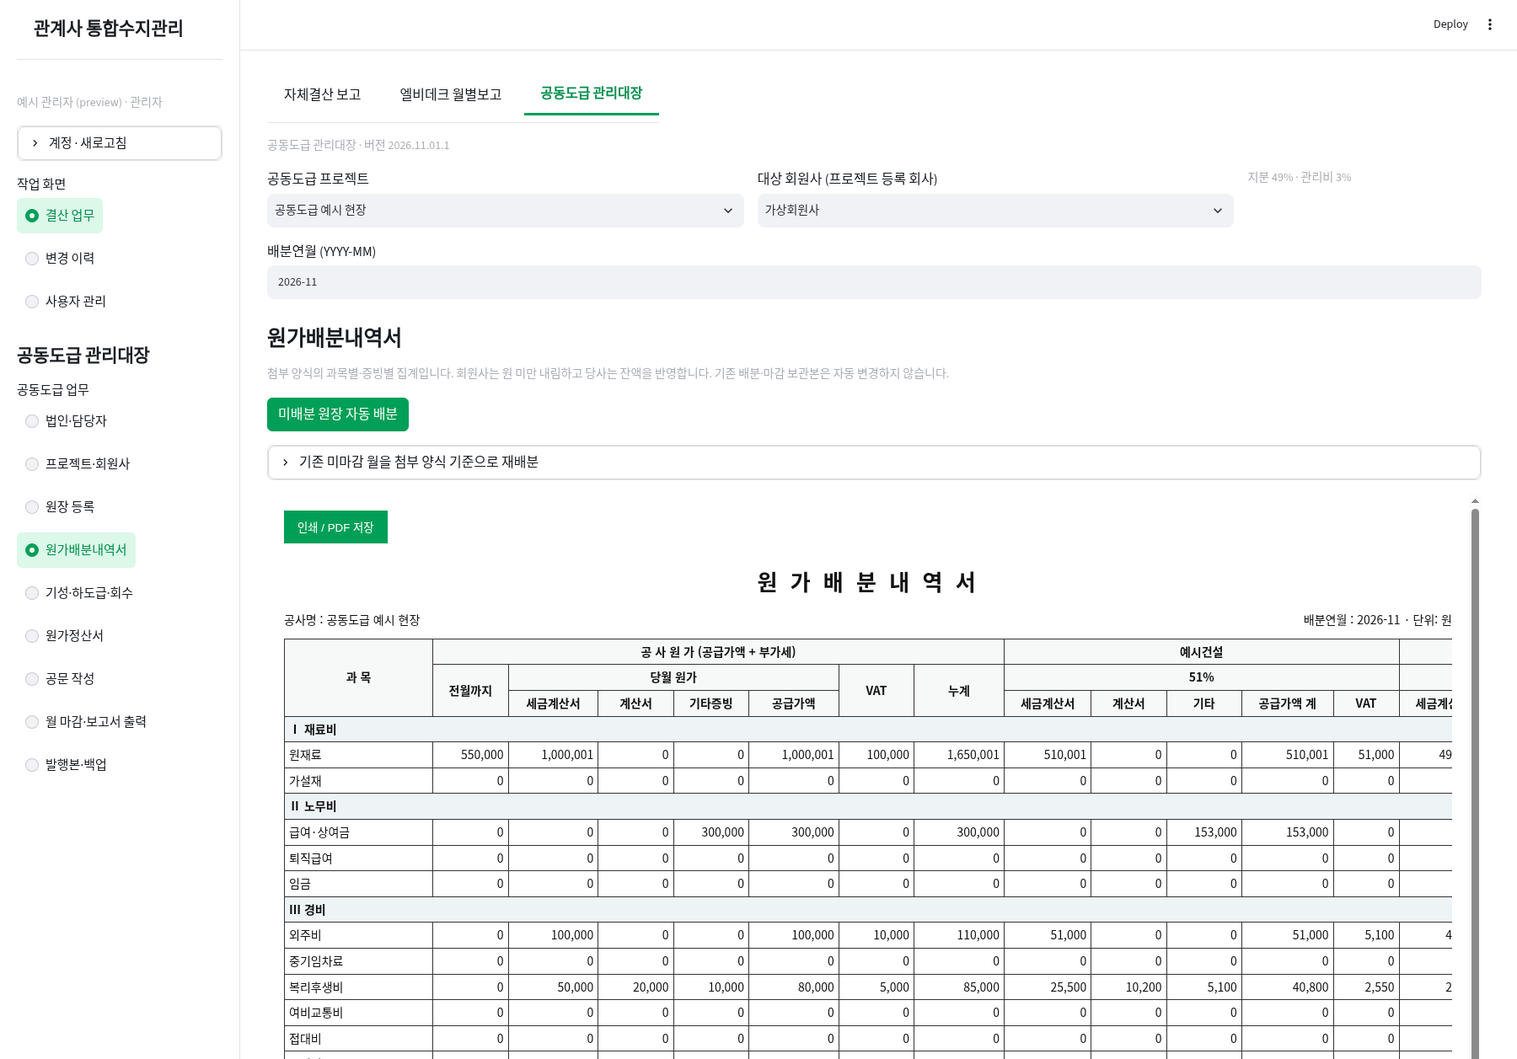
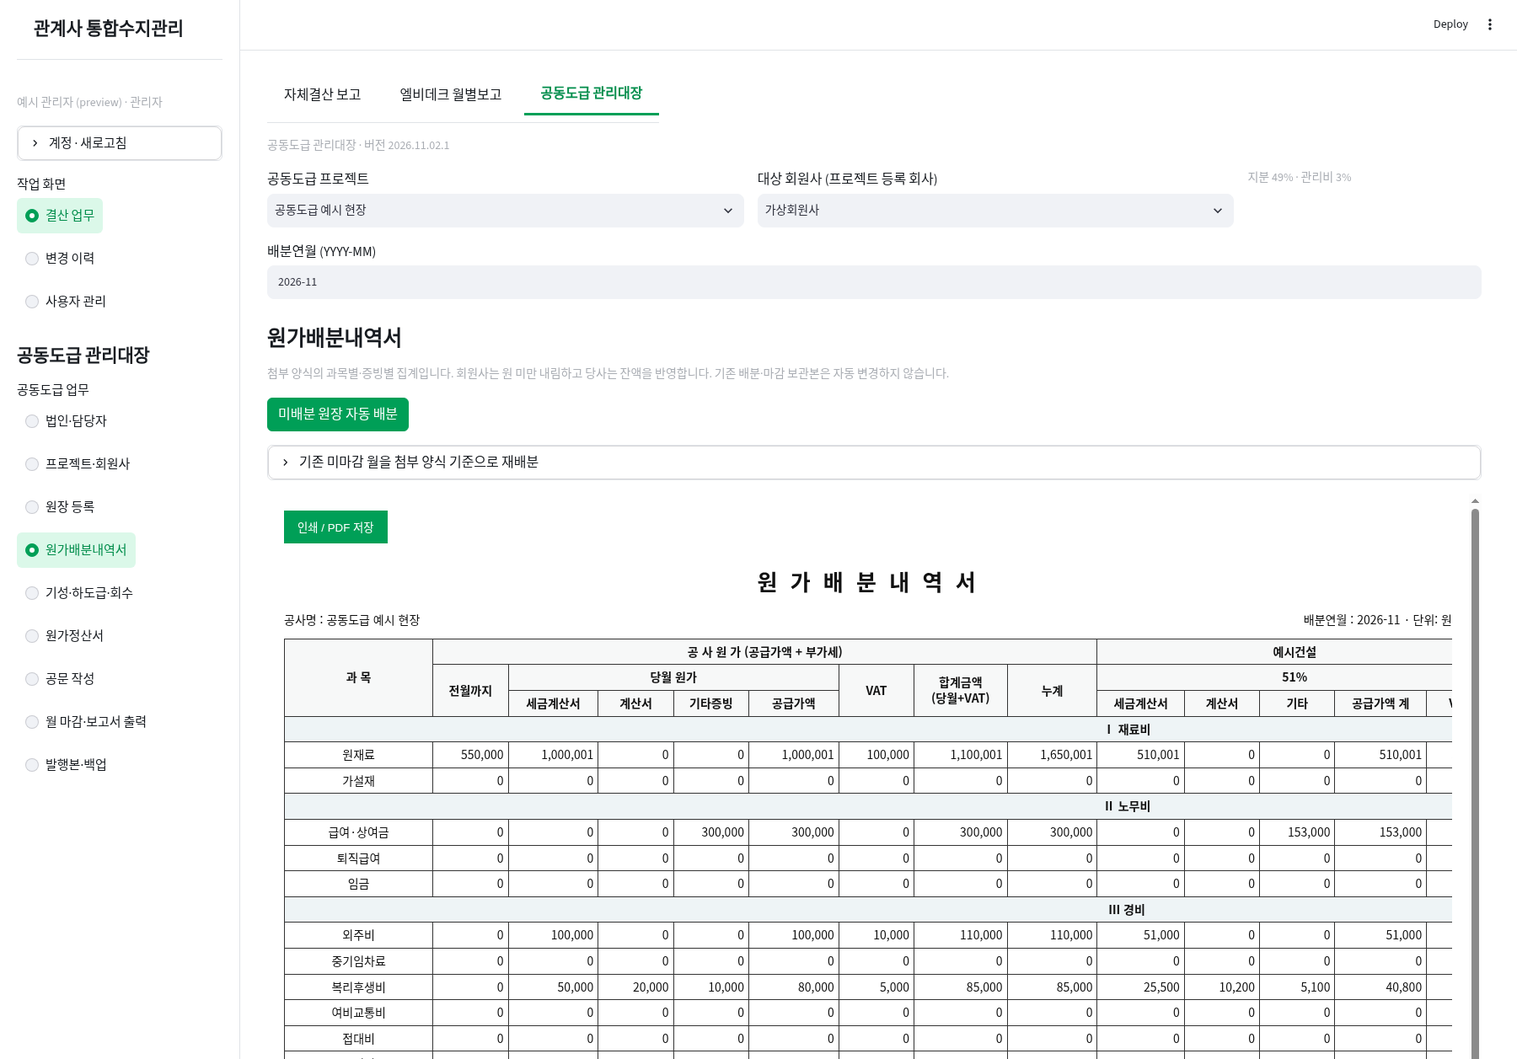
Place financial totals beside amounts and center descriptive table cells

diff --git a/monthly_preview_template.html b/monthly_preview_template.html
@@ -48,6 +48,7 @@ h1{font-size:32px;letter-spacing:-1px;margin:0 0 10px}h1 small{font-size:26px;ma
 #reporttable .final td.negative{color:#a93434!important}
 @media print{.pagehead{overflow:visible;display:block;margin-bottom:10px}.title-and-approvals{display:flex;flex-wrap:nowrap;min-width:0;gap:18px}.title-and-approvals>div:first-child{min-width:0}.report-approvals{margin:0;flex-wrap:nowrap}.pagehead>.actions{display:none!important}#reporttable .final td{background:#e4e7eb!important;color:#26313b!important}#reporttable .final td.negative{color:#a93434!important}}
 @media screen and (max-width:1150px){.title-and-approvals{gap:16px}.title-and-approvals h1{font-size:26px}.title-and-approvals h1 small{font-size:23px}.report-approvals .approval-table{width:170px}}
+th{text-align:center!important}
 </style></head><body>
 <aside><div class="brand">LB DECK<small>데크·거더사업부 수지관리</small></div><div class="nav-head">MONTHLY REPORT</div><button class="nav-item active" id="nav-report" onclick="tab('report')"><span>▦</span>수입·지출 보고서</button><button class="nav-item" id="nav-analysis" onclick="tab('analysis')"><span>≡</span>자료 분석·검증</button><div class="side-note"><strong>보고서 화면 시안 · v1</strong><br>원본 엑셀 기준 / 읽기 전용<br>숫자를 누르면 집계 근거를 확인합니다.<br>회사 원본은 외부로 전송하지 않습니다.</div></aside>
 <main><div class="embedded-switch"><button class="control" onclick="tab('report')">보고서</button><button class="control" onclick="tab('analysis')">분석·검증</button></div><div class="topbar"><span>엘비데크 월별보고 &nbsp; / &nbsp; 통장 입출금 기준</span><span class="pill">공급가액 기준 · 부가세 제외</span></div>
@@ -156,3 +157,14 @@ document.getElementById('endMonth').innerHTML=D.months.map(m=>`<option value="${
 if(D.validation_mode==='ledger'){document.title='엘비데크 | 월별 통장 수입·지출 보고서';document.querySelector('.paneltitle small').textContent='월별 업로드한 원장을 집계한 부가세 제외 보고서';document.querySelector('.side-note').innerHTML='<strong>월별 원장 자동 집계</strong><br>원장·부가세·별도 조정 기준<br>숫자를 누르면 집계 근거를 확인합니다.';}
 render();analysis();document.addEventListener('keydown',e=>{if(e.key==='Escape')closeDrawer()});
 </script></body></html>
+
+<script>
+// Reapply semantic alignment after month filters and expandable details render.
+function alignReportCells(){document.querySelectorAll('table td').forEach(cell=>{
+ const value=cell.textContent.trim();
+ const numeric=/^[−△▲-]?\s*[\d,]+(?:\.\d+)?(?:%|원)?$/.test(value);
+ cell.style.setProperty('text-align',numeric?'right':'center','important');
+});}
+new MutationObserver(alignReportCells).observe(document.body,{childList:true,subtree:true});
+alignReportCells();
+</script>

diff --git a/joint_allocation.py b/joint_allocation.py
@@ -137,23 +137,23 @@ def matrix_data(project,members,raw,allocations,prior=(),stored=(),prior_known=T
 def render_matrix(data,month,printable=True):
     from joint_report import money
     esc=lambda s:escape(str(s));ms=data['members']
-    def cell(value):return '<td>'+esc(money(value))+'</td>'
+    def cell(value):return '<td class="number">'+esc(money(value))+'</td>'
     h='<h1>원 가 배 분 내 역 서</h1><div class="heading"><span>공사명 : '+esc(data['project']['name'])+'</span><span>배분연월 : '+esc(month)+' · 단위: 원</span></div>'
-    h+='<div class="scroll"><table id="allocation-matrix"><thead><tr><th rowspan="3">과 목</th><th colspan="7">공 사 원 가 (공급가액 + 부가세)</th>'+''.join('<th colspan="5">'+esc(m['name'])+'</th>' for m in ms)+'<th rowspan="3">비고·검산</th><th rowspan="3">합계금액<br>(당월+VAT)</th></tr><tr><th rowspan="2">전월까지</th><th colspan="4">당월 원가</th><th rowspan="2">VAT</th><th rowspan="2">누계</th>'+''.join('<th colspan="5">'+esc(m['share'])+'%</th>' for m in ms)+'</tr><tr>'
+    h+='<div class="scroll"><table id="allocation-matrix"><thead><tr><th rowspan="3">과 목</th><th colspan="8">공 사 원 가 (공급가액 + 부가세)</th>'+''.join('<th colspan="5">'+esc(m['name'])+'</th>' for m in ms)+'<th rowspan="3">비고·검산</th></tr><tr><th rowspan="2">전월까지</th><th colspan="4">당월 원가</th><th rowspan="2">VAT</th><th rowspan="2">합계금액<br>(당월+VAT)</th><th rowspan="2">누계</th>'+''.join('<th colspan="5">'+esc(m['share'])+'%</th>' for m in ms)+'</tr><tr>'
     h+=''.join('<th>'+x+'</th>' for x in ['세금계산서','계산서','기타증빙','공급가액']+['세금계산서','계산서','기타','공급가액 계','VAT']*len(ms))+'</tr></thead><tbody>'
     for line in data['lines']:
         if 'section' in line:h+='<tr class="section"><td colspan="'+str(10+5*len(ms))+'">'+esc(line['section'])+'</td></tr>';continue
         cur=line['current'];supply=sum((cur[k] for k in BUCKETS[:3]),Decimal(0));gross=supply+cur['vat']
         h+='<tr class="'+('total' if line.get('total') else 'subtotal' if line.get('subtotal') else '')+'"><td>'+esc(line['label'])+'</td>'
-        h+=(cell(line['previous']) if data['prior_known'] else '<td>미기록</td>')+''.join(cell(cur[k]) for k in BUCKETS[:3])+cell(supply)+cell(cur['vat'])+(cell(line['previous']+gross) if data['prior_known'] else '<td>미기록</td>')
+        h+=(cell(line['previous']) if data['prior_known'] else '<td>미기록</td>')+''.join(cell(cur[k]) for k in BUCKETS[:3])+cell(supply)+cell(cur['vat'])+cell(gross)+(cell(line['previous']+gross) if data['prior_known'] else '<td>미기록</td>')
         for m in ms:
             part=line['companies'][m['id']]
             h+=(''.join('<td>확인 필요</td>' for _ in range(3)) if line['unknown'] else ''.join(cell(part[k]) for k in BUCKETS[:3]))+cell(part['base'])+cell(part['vat'])
         valid=sum((line['companies'][m['id']]['base'] for m in ms),Decimal(0))==supply and sum((line['companies'][m['id']]['vat'] for m in ms),Decimal(0))==cur['vat']
-        h+='<td>'+('확인 필요' if line['unknown'] else '정상' if valid else '미배분·확인')+'</td>'+cell(gross)+'</tr>'
+        h+='<td>'+('확인 필요' if line['unknown'] else '정상' if valid else '미배분·확인')+'</td></tr>'
     h+='</tbody></table></div><p>분류 확인 계정은 전체 공급가액에 포함하며 공사원가 계에는 중복 포함하지 않습니다.</p><p>합계금액은 당월 공급가액과 VAT의 합계입니다. 회사별 배분액을 다시 더하지 않습니다.</p>'
     if data.get('legacy'):h+='<p>기존 배분액을 보존한 자료입니다. 새 계산 기준은 미마감 월에서 정산 연결 확인 후 명시적으로 재배분할 수 있습니다.</p>'
     if data['unknown']:h+='<p>기존 혼합 증빙 배분은 금액을 보존했습니다. 증빙별 배분을 확인하거나 미마감 월에서 명시적으로 재배분하세요.</p>'
     button='<button onclick="window.print()">인쇄 / PDF 저장</button>' if printable else '<button disabled>월 마감 후 출력</button>'
-    css='''*{box-sizing:border-box}body{font:14px/1.4 "Malgun Gothic",sans-serif;color:#111;margin:20px}h1{text-align:center;font-size:26px;letter-spacing:4px}.heading{display:flex;justify-content:space-between;margin:12px 0}.scroll{overflow:auto}table{border-collapse:collapse;min-width:2000px;width:100%;font-variant-numeric:tabular-nums}th,td{border:1px solid #333;padding:5px;text-align:right;white-space:nowrap}th{text-align:center;background:#f7f8f8}td:first-child{text-align:left}.section td{font-weight:bold;background:#eef4f6}.subtotal{background:#f1f2f3;font-weight:700}.total{background:#e0e5e9;font-weight:700}p{font-size:12px}button{padding:10px 16px;background:#009f57;color:white;border:0;margin-bottom:10px}@page{size:A3 landscape;margin:10mm}@media print{body{margin:0;font-size:9pt}button{display:none}.scroll{overflow:visible}table{min-width:0;font-size:8pt}th,td{padding:1.5px;line-height:1.2}tr{break-inside:avoid}h1{font-size:18pt;margin:8px 0}.heading{margin:6px 0}.section td,.subtotal,.total{print-color-adjust:exact}}'''
+    css='''*{box-sizing:border-box}body{font:14px/1.4 "Malgun Gothic",sans-serif;color:#111;margin:20px}h1{text-align:center;font-size:26px;letter-spacing:4px}.heading{display:flex;justify-content:space-between;margin:12px 0}.scroll{overflow:auto}table{border-collapse:collapse;min-width:2000px;width:100%;font-variant-numeric:tabular-nums}th,td{border:1px solid #333;padding:5px;text-align:right;white-space:nowrap}th{text-align:center;background:#f7f8f8}td{text-align:center}td.number{text-align:right}.section td{font-weight:bold;background:#eef4f6}.subtotal{background:#f1f2f3;font-weight:700}.total{background:#e0e5e9;font-weight:700}p{font-size:12px}button{padding:10px 16px;background:#009f57;color:white;border:0;margin-bottom:10px}@page{size:A3 landscape;margin:10mm}@media print{body{margin:0;font-size:9pt}button{display:none}.scroll{overflow:visible}table{min-width:0;font-size:8pt}th,td{padding:1.5px;line-height:1.2}tr{break-inside:avoid}h1{font-size:18pt;margin:8px 0}.heading{margin:6px 0}.section td,.subtotal,.total{print-color-adjust:exact}}'''
     return '<!doctype html><html lang="ko"><meta charset="utf-8"><title>원가배분내역서</title><style>'+css+'</style><body>'+button+h+'</body></html>'

diff --git a/joint_report.py b/joint_report.py
@@ -11,6 +11,7 @@ def amount(v):
     n=num(v)
     return '<span class="negative">'+esc(money(n))+'</span>' if n<0 else (esc(money(n)) if n else '−')
 def td(value='',numeric=False,**attrs):
+    attrs['class']=(attrs.get('class','')+' '+('number' if numeric else 'text')).strip()
     attributes=''.join(' '+k+'="'+esc(v)+'"' for k,v in attrs.items())
     return '<td'+attributes+'>'+(amount(value) if numeric else esc(value))+'</td>'
 def short_date(value):
@@ -19,7 +20,7 @@ def short_date(value):
 
 def numeric_cells(values):return ''.join(td(v,True) for v in values)
 def table(headers,records):
-    return '<table><thead><tr>'+''.join('<th>'+esc(x)+'</th>' for x in headers)+'</tr></thead><tbody>'+''.join('<tr>'+''.join(td(x) for x in row)+'</tr>' for row in records)+'</tbody></table>'
+    return '<table><thead><tr>'+''.join('<th>'+esc(x)+'</th>' for x in headers)+'</tr></thead><tbody>'+''.join('<tr>'+''.join(td(x,False,**{'class':'number' if any(t in headers[i] for t in ['공급가액','VAT','계산서','영수증','합계']) else 'text'}) for i,x in enumerate(row))+'</tr>' for row in records)+'</tbody></table>'
 
 
 def period_label(start,end):
@@ -87,10 +88,10 @@ def settlement_body(d,meta,number,issued):
     body+='</tbody></table></div><p class="sheet-bottom">보험료·제외항목은 회원사분 입력액입니다. 관리비는 기성별 원 미만 버림을 적용합니다.</p></section>'
     if d.get('claim_only'):
         body+='<section class="support-sheet"><h2>■ 하도급 청구내역 ['+esc(m['name'])+']</h2><div class="sheet-scroll"><table id="subcontract-grid"><thead><tr>'
-        body+=''.join('<th>'+x+'</th>' for x in ['청구일','업체명','공급가액','VAT','공종명','지급방식','비고','합계금액'])+'</tr></thead><tbody>'
+        body+=''.join('<th>'+x+'</th>' for x in ['청구일','업체명','공급가액','VAT','합계금액','공종명','지급방식','비고'])+'</tr></thead><tbody>'
         for e in subs:
-            v=e['data'];body+='<tr>'+td(short_date(e['entry_date']))+td(v.get('vendor',''))+numeric_cells([v['supply'],v['vat']])+td(v.get('work_type',''))+td(v.get('method',''))+td(v.get('note',''))+numeric_cells([num(v['supply'])+num(v['vat'])])+'</tr>'
-        body+='<tr class="grand-total">'+td('합 계',colspan='2')+numeric_cells([sub,subvat])+td('',colspan='3')+numeric_cells([sub+subvat])+'</tr></tbody></table></div></section>'
+            v=e['data'];body+='<tr>'+td(short_date(e['entry_date']))+td(v.get('vendor',''))+numeric_cells([v['supply'],v['vat'],num(v['supply'])+num(v['vat'])])+td(v.get('work_type',''))+td(v.get('method',''))+td(v.get('note',''))+'</tr>'
+        body+='<tr class="grand-total">'+td('합 계',colspan='2')+numeric_cells([sub,subvat,sub+subvat])+td('',colspan='3')+'</tr></tbody></table></div></section>'
     else:
         # Supporting sheet 3 mirrors the claim/payment columns of the original.
         body+='<section class="support-sheet"><h2>■ 하도급 청구 및 지급현황 ['+esc(m['name'])+']</h2><div class="sheet-scroll"><table id="subcontract-grid"><thead><tr>'
@@ -183,3 +184,5 @@ def monthly_package(package,member_id,meta):
             if original.get('digest') and hashlib.sha256(blob).hexdigest()!=original['digest']:raise ValueError('보관된 원본 파일의 무결성이 맞지 않습니다.')
             z.writestr('업로드원본/원본_'+str(original['id'])+'.xlsx',blob)
     return stream.getvalue(),ledger_html,alloc_html
+
+CSS += "td.text, .support-sheet td.text:first-child, #letter-amounts td.text:first-child{text-align:center}td.number{text-align:right}.grand-total{background:#e8edf0}.grand-total td{border-top:2px solid #66737d}"

diff --git a/joint_app.py b/joint_app.py
@@ -7,6 +7,8 @@ from zipfile import BadZipFile
 import pandas as pd
 import openpyxl
 import streamlit as st
+from table_layout import install as install_table_layout
+install_table_layout()
 import streamlit.components.v1 as components
 import collaboration as shared
 import joint_store as db
@@ -16,7 +18,7 @@ from joint_amounts import money_input,frame as amount_frame,show as amount_table
 from joint_report import render as report_html,money,period_label
 from joint_import import read as import_rows,LABELS
 
-VERSION='2026.11.01.1'
+VERSION='2026.11.02.1'
 
 def saved():
     st.session_state['_jv_success']='저장했습니다.';st.rerun()
@@ -175,14 +177,21 @@ def pick_table(title,records,selected,key,used=None):
         total=(db.num(r.get('관리비',0))+db.num(r.get('산재보험',0))+db.num(r.get('고용보험',0))) if '관리비' in r else db.num(r.get('공급가액',0))+db.num(r.get('VAT',0))-db.num(r.get('회원사투입 차감',0))
         initial.append({'선택':r['id'] in selected,**r,'다른 정산 사용':used.get(r['id'],''),'합계금액':str(total)})
     currencies+=['합계금액'];formatted_frame=amount_frame(initial,currencies,footer=False)
+    columns=list(formatted_frame);columns.remove('합계금액');columns.insert(max(columns.index(k) for k in currencies if k!='합계금액')+1,'합계금액');formatted_frame=formatted_frame[columns]
+    footer={k:'' for k in columns};footer['선택']=False;footer['id']=0;footer[next(k for k in columns if k not in currencies and k not in ['선택','id'])]='목록 합계'
+    for k in currencies:footer[k]=formatted(sum((db.num(x.get(k,0)) for x in initial),db.num(0)))
+    formatted_frame=pd.concat([formatted_frame,pd.DataFrame([footer])],ignore_index=True)
     import hashlib
     fingerprint=hashlib.sha256(json.dumps(initial,ensure_ascii=False,sort_keys=True).encode()).hexdigest()[:12]
-    frame=st.data_editor(formatted_frame,hide_index=True,use_container_width=True,disabled=[x for x in initial[0] if x!='선택'],column_config={'id':st.column_config.NumberColumn('내역번호')},key=key+'_'+fingerprint)
-    ids=[int(x['id']) for x in frame.to_dict('records') if x['선택']]
-    summaries=[]
-    for label,subset in [('목록 합계',initial),('선택 합계',[x for x in initial if x['id'] in ids])]:
-        summaries.append({'구분':label,**{k:str(sum((db.num(x.get(k,0)) for x in subset),db.num(0))) for k in currencies}})
-    amount_table(summaries,currencies,footer=False)
+    widget_key=key+'_'+fingerprint
+    edits=st.session_state.get(widget_key,{}).get('edited_rows',{})
+    current_ids=[r['id'] for i,r in enumerate(initial) if edits.get(i,edits.get(str(i),{})).get('선택',r['선택'])]
+    selected_total={k:'' for k in columns};selected_total['선택']=False;selected_total['id']=0
+    selected_total[next(k for k in columns if k not in currencies and k not in ['선택','id'])]='선택 합계'
+    for k in currencies:selected_total[k]=formatted(sum((db.num(x.get(k,0)) for x in initial if x['id'] in current_ids),db.num(0)))
+    formatted_frame=pd.concat([formatted_frame,pd.DataFrame([selected_total])],ignore_index=True)
+    frame=st.data_editor(formatted_frame,hide_index=True,use_container_width=True,disabled=[x for x in initial[0] if x!='선택'],column_config={'id':st.column_config.NumberColumn('내역번호')},key=widget_key)
+    ids=[int(x['id']) for x in frame.to_dict('records') if x['선택'] and int(x['id'])!=0]
     return ids
 
 def entry_form(c,p,m,kind,default_month=None):

diff --git a/table_layout.py b/table_layout.py
@@ -1,0 +1,34 @@
+"""Consistent table alignment for every integrated application route."""
+import re
+from numbers import Number
+from functools import wraps
+import pandas as pd
+import streamlit as st
+
+def aligned_config(data,config=None):
+    try:
+        frame=data.data if hasattr(data,'data') and isinstance(data.data,pd.DataFrame) else pd.DataFrame(data)
+    except (ValueError,TypeError):return config or {}
+    result=dict(config or {})
+    for name in frame:
+        values=frame[name].dropna();label=str(name)
+        numeric=bool(len(values)) and all(isinstance(v,Number) and not isinstance(v,bool) or isinstance(v,str) and bool(re.fullmatch(r'-?[\d,]+(?:\.\d+)?%?',v.strip())) for v in values if str(v).strip())
+        alignment='right' if numeric else 'center'
+        # Date strings and identifiers are descriptive fields, even if stored as digits.
+        if any(x in label for x in ['일자','일시','연월','날짜','코드','아이디','번호']):alignment='center'
+        old=result.get(name)
+        if isinstance(old,dict):result[name]={**old,'alignment':alignment}
+        elif old is None:result[name]={'alignment':alignment}
+        elif isinstance(old,str):result[name]={'label':old,'alignment':alignment}
+    return result
+
+def install():
+    for name in ['dataframe','data_editor']:
+        original=getattr(st,name)
+        if getattr(original,'_aligned_tables',False):continue
+        @wraps(original)
+        def display(data=None,*args,_original=original,**kwargs):
+            kwargs['column_config']=aligned_config(data,kwargs.get('column_config'))
+            return _original(data,*args,**kwargs)
+        display._aligned_tables=True
+        setattr(st,name,display)

diff --git a/joint_amounts.py b/joint_amounts.py
@@ -28,7 +28,7 @@ def frame(records,currency,row_sum=(),footer=True):
     if row_sum:
         for r in data:r['합계금액']=str(sum((num(r.get(k,0)) for k in row_sum),Decimal(0)))
         if '합계금액' in columns:columns.remove('합계금액')
-        columns.append('합계금액');currency=list(dict.fromkeys(currency+['합계금액']))
+        columns.insert(max(columns.index(k) for k in currency)+1,'합계금액');currency=list(dict.fromkeys(currency+['합계금액']))
     if footer:
         totals={k:'' for k in columns};first=next((k for k in columns if k not in currency),'구분');totals[first]='합계'
         for k in currency:totals[k]=str(sum((num(r.get(k,0)) for r in data),Decimal(0)))
@@ -43,5 +43,7 @@ def frame(records,currency,row_sum=(),footer=True):
 
 def show(records,currency,row_sum=(),footer=True):
     result=frame(records,currency,row_sum,footer)
-    st.dataframe(result,hide_index=True,use_container_width=True)
+    styled=result.style.set_properties(**{'text-align':'center'}).set_properties(subset=[k for k in list(currency)+['합계금액'] if k in result],**{'text-align':'right'})
+    if footer and len(result):styled=styled.set_properties(subset=pd.IndexSlice[[result.index[-1]],:],**{'font-weight':'bold','background-color':'#e8edf0','border-top':'2px solid #66737d'})
+    st.dataframe(styled,hide_index=True,use_container_width=True)
     return result

diff --git a/tests/test_table_layout.py b/tests/test_table_layout.py
@@ -1,0 +1,18 @@
+import unittest
+from joint_amounts import frame
+from table_layout import aligned_config
+
+class TableLayoutTests(unittest.TestCase):
+    def test_total_is_adjacent_to_money_and_footer_aligned(self):
+        result=frame([{'청구일':'2026-11-01','업체':'예시','공급가액':'1000','VAT':'100','공종':'철근','비고':'메모'}],['공급가액','VAT'],['공급가액','VAT'])
+        self.assertEqual(list(result.columns),['청구일','업체','공급가액','VAT','합계금액','공종','비고'])
+        self.assertEqual(result.iloc[-1]['공급가액'],'1,000')
+        self.assertEqual(result.iloc[-1]['합계금액'],'1,100')
+        config=aligned_config(result)
+        for name in ['청구일','업체','공종','비고']:self.assertEqual(config[name]['alignment'],'center')
+        for name in ['공급가액','VAT','합계금액']:self.assertEqual(config[name]['alignment'],'right')
+    def test_edit_configuration_preserved(self):
+        result=aligned_config([{'법인':'예시','지분':49}],{'법인':{'type_config':{'options':['예시']}}})
+        self.assertEqual(result['법인']['alignment'],'center')
+        self.assertEqual(result['법인']['type_config']['options'],['예시'])
+        self.assertEqual(result['지분']['alignment'],'right')

diff --git a/apply_update.py b/apply_update.py
@@ -8,7 +8,7 @@ import shutil
 import sys
 
 ROOT=Path(__file__).resolve().parent
-FILES=['joint_amounts.py','joint_allocation.py','joint_workflow.py','joint_app.py','joint_store.py','joint_report.py','joint_import.py','multiuser_app.py','collaboration.py','monthly_app.py','monthly_store.py',
+FILES=['table_layout.py','joint_amounts.py','joint_allocation.py','joint_workflow.py','joint_app.py','joint_store.py','joint_report.py','joint_import.py','multiuser_app.py','collaboration.py','monthly_app.py','monthly_store.py',
        'monthly_report_preview.py','monthly_preview_template.html','monthly_theme.css','monthly_ledger.py','requirements.lock',
        'requirements.txt','repair_dependencies.bat']
 

diff --git a/multiuser_app.py b/multiuser_app.py
@@ -2,6 +2,8 @@
 from pathlib import Path
 import sqlite3
 import streamlit as st
+from table_layout import install as install_table_layout
+install_table_layout()
 import collaboration as shared
 
 st.set_page_config(page_title='관계사 통합 수지관리', page_icon='📊', layout='wide')

diff --git a/monthly_app.py b/monthly_app.py
@@ -9,6 +9,8 @@ import sqlite3
 import zipfile
 
 import streamlit as st
+from table_layout import install as install_table_layout
+install_table_layout()
 import streamlit.components.v1 as components
 import collaboration as shared
 import monthly_store as store

diff --git a/README.md b/README.md
@@ -8,9 +8,9 @@
 원본 파일이나 DB를 인터넷에 업로드하지 않으며 원본 ZIP을 수정하지 않습니다.
 
 
-## 공동도급 업데이트 · 2026.11.01.1
+## 공동도급 업데이트 · 2026.11.02.1
 
-금액 콤마·목록 합계, 하도급 청구 전용 입력, 공문 담당자 표시, 엑셀 형식 원가배분내역서와 저장 없는 정산 미리보기를 반영했습니다. 기존 자료와 발행본은 보존합니다. [사용안내](docs/공동도급_사용안내.md)를 참고하세요.
+합계는 금액 열 바로 오른쪽과 같은 표 하단에 배치하고 문자·날짜는 가운데, 금액은 오른쪽 정렬합니다. 금액 콤마·목록 합계, 하도급 청구 전용 입력, 공문 담당자 표시, 엑셀 형식 원가배분내역서와 저장 없는 정산 미리보기를 반영했습니다. 기존 자료와 발행본은 보존합니다. [사용안내](docs/공동도급_사용안내.md)를 참고하세요.
 
 ![원가배분내역서 출력 예시 · 가상 자료](docs/joint-allocation-print.png)
 
